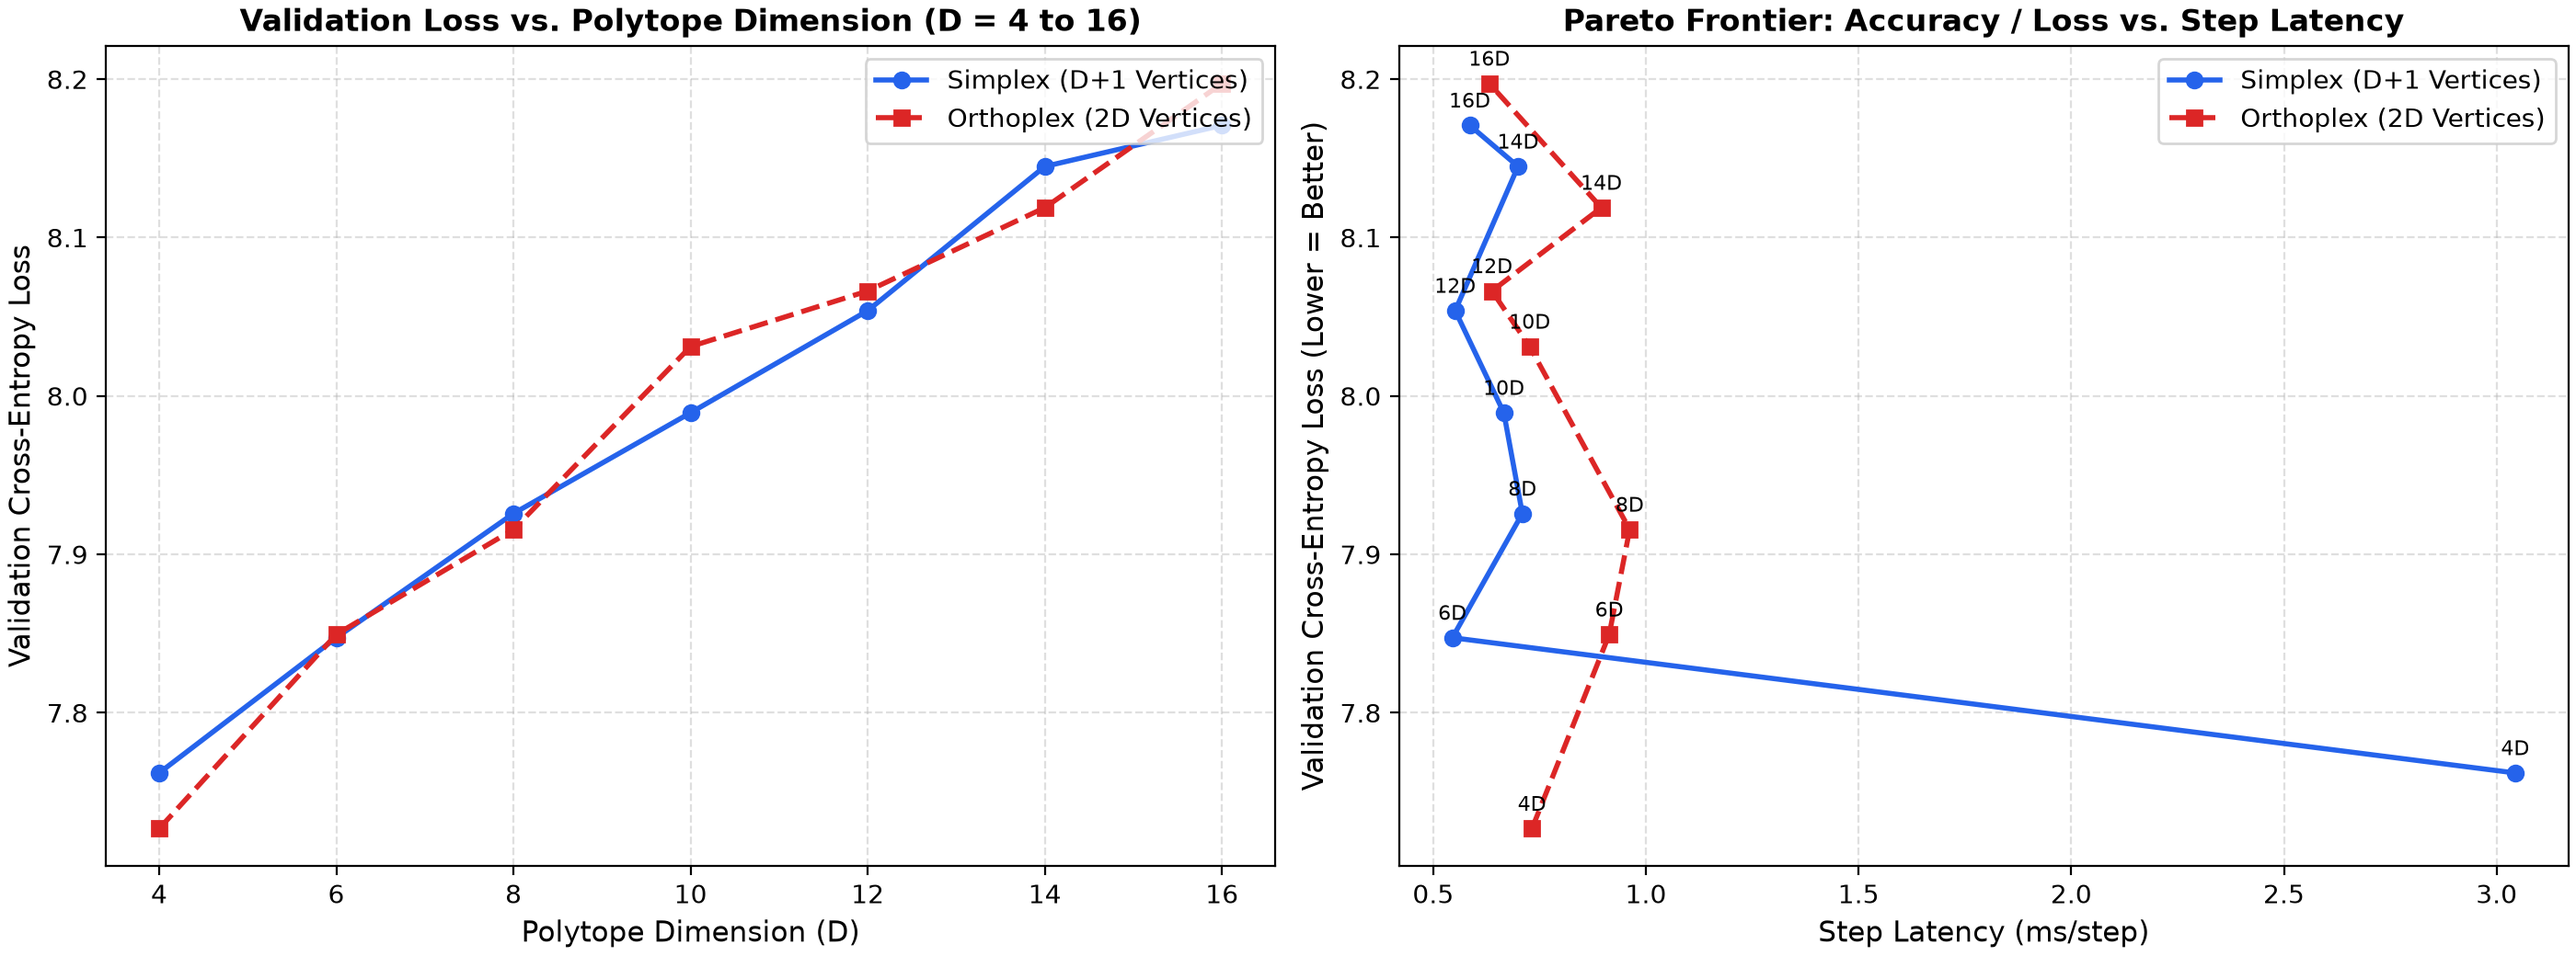
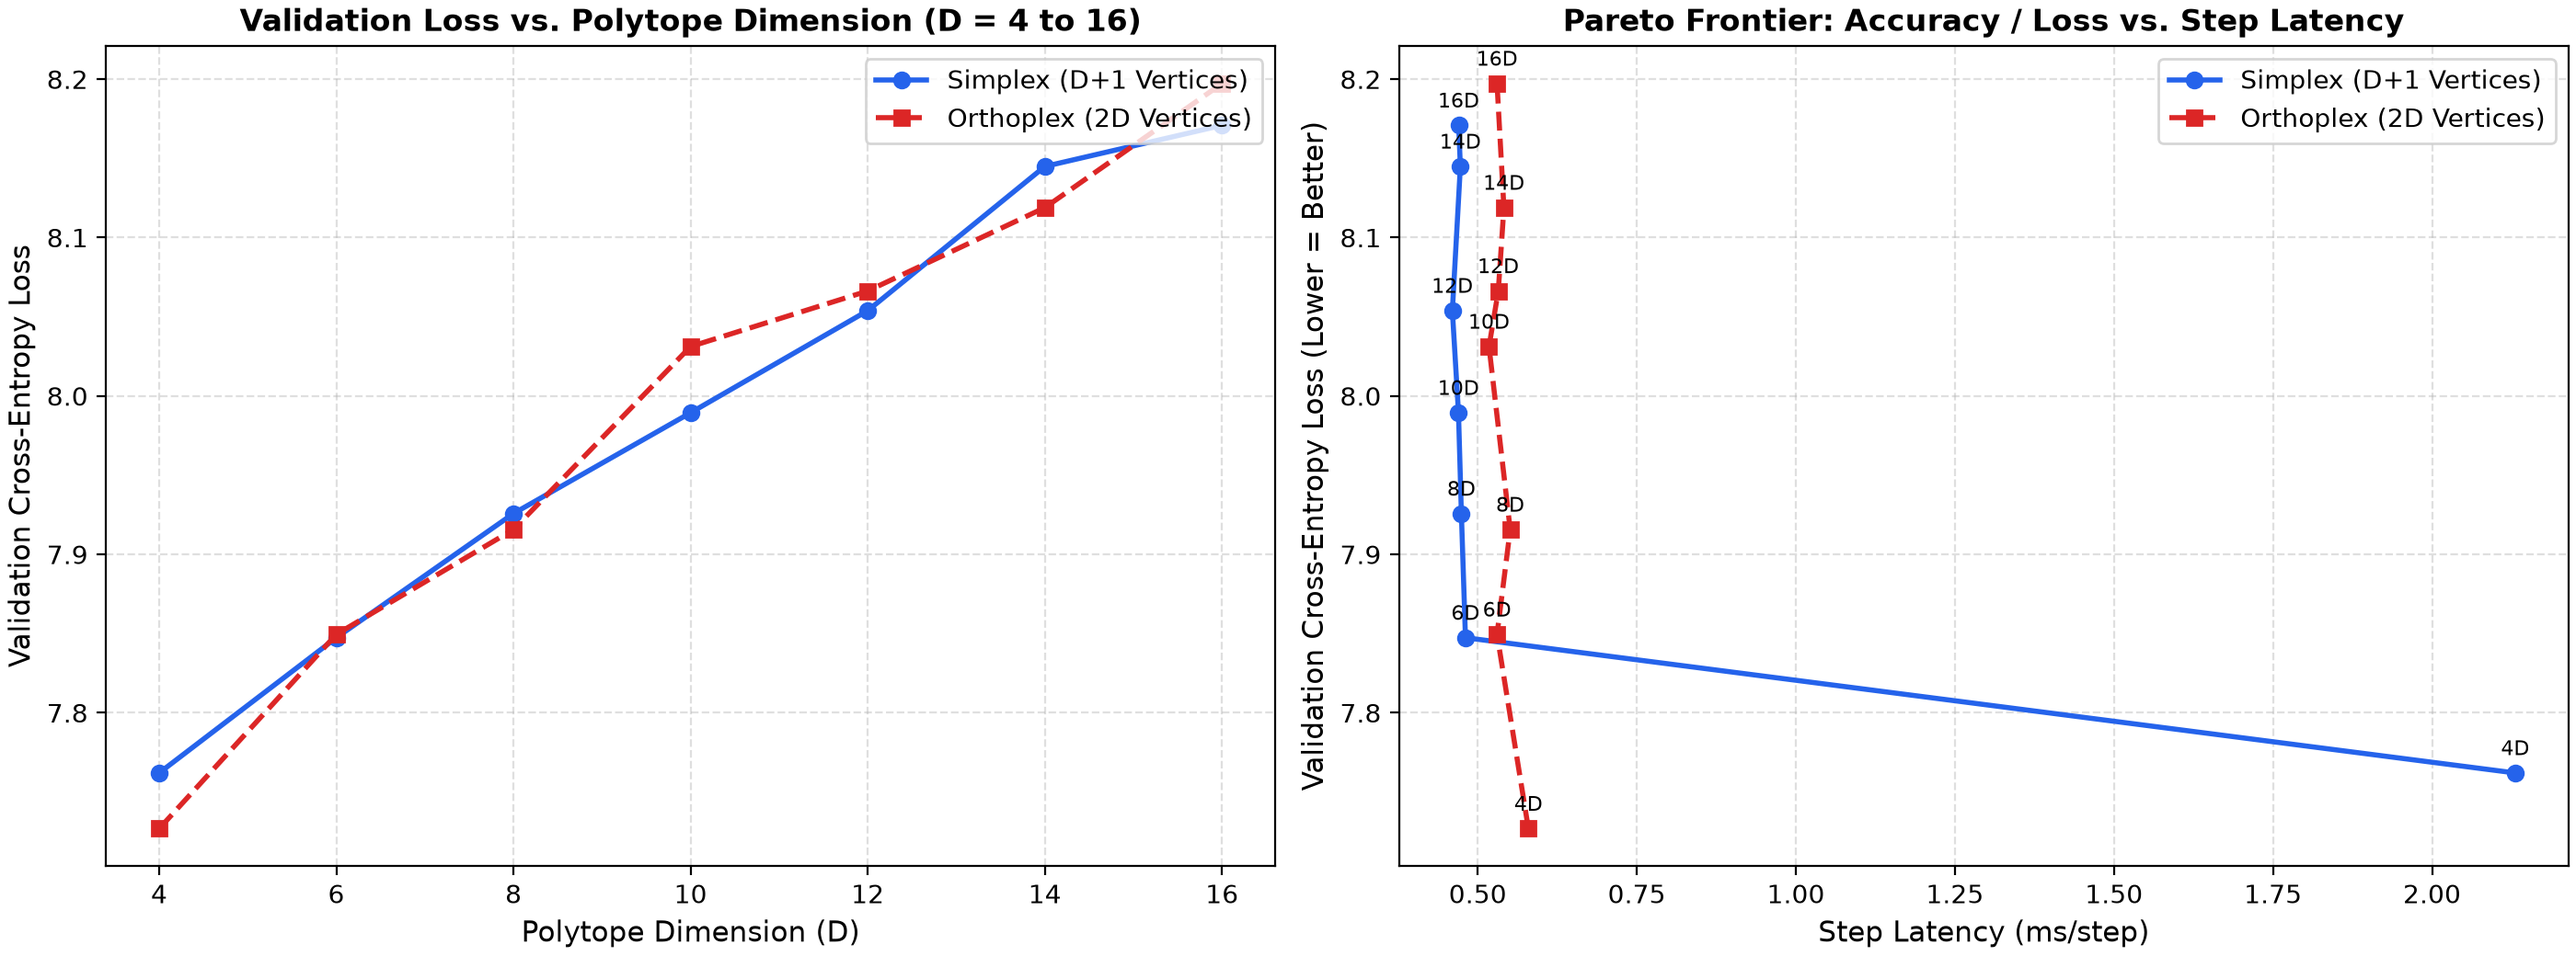
docs(review): complete all remaining review audit items (P5 Lean docstring claims, F11 SAVG retention decay, F20 throughput framing)

diff --git a/benchmark_dimension_scaling.py b/benchmark_dimension_scaling.py
@@ -1,16 +1,15 @@
 """
 benchmark_dimension_scaling.py
-Systematic Pareto-frontier analysis of Polytope Landmark Connectors across dimensions:
+Throughput and Memory Scaling Benchmark across Polytope Dimensions:
 Dimensions evaluated: D in {4, 6, 8, 10, 12, 14, 16}
 Families compared:
   1. Simplex (D + 1 vertices)
   2. Orthoplex (2D antipodal vertices)
 
 Evaluates:
-  - Multi-query associative recall loss & test accuracy
-  - Training throughput & step latency (ms/step)
+  - Step latency (ms/step) & hardware throughput on tensor batch
   - Memory consumption (peak allocated VRAM in MB)
-  - Geometric barycentric entropy and Gini sparsity
+  - Synthetic token classification loss on Gaussian random manifold (throughput benchmark)
 Generates publication plot: assets/polytope_dimension_scaling_pareto.png
 """
 

diff --git a/multihead_savg.py b/multihead_savg.py
@@ -89,7 +89,11 @@ class MultiHeadSAVGLayer(nn.Module):
         state: tuple[torch.Tensor, torch.Tensor],
         use_triton: bool = True
     ) -> tuple[torch.Tensor, tuple[torch.Tensor, torch.Tensor]]:
-        """O(1) Streaming Multi-Head Autoregressive Step."""
+        """
+        O(1) Streaming Multi-Head Autoregressive Step.
+        Note: Operates via geometric state decay factors gamma_s and gamma_a (bounded retention
+        across past associative writes S and A).
+        """
         B, D = x_t.shape
         H, d = self.num_heads, self.d_head
         S_prev, A_prev = state  # [B, H, d, d]
